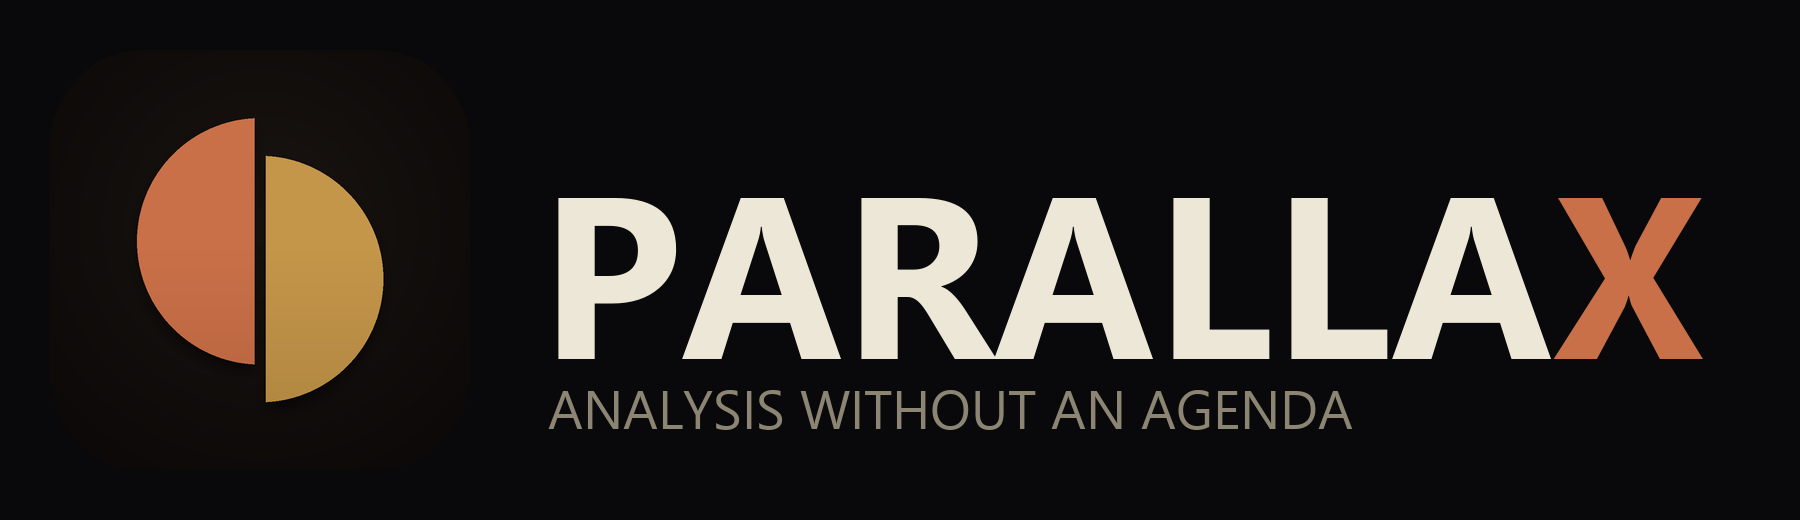
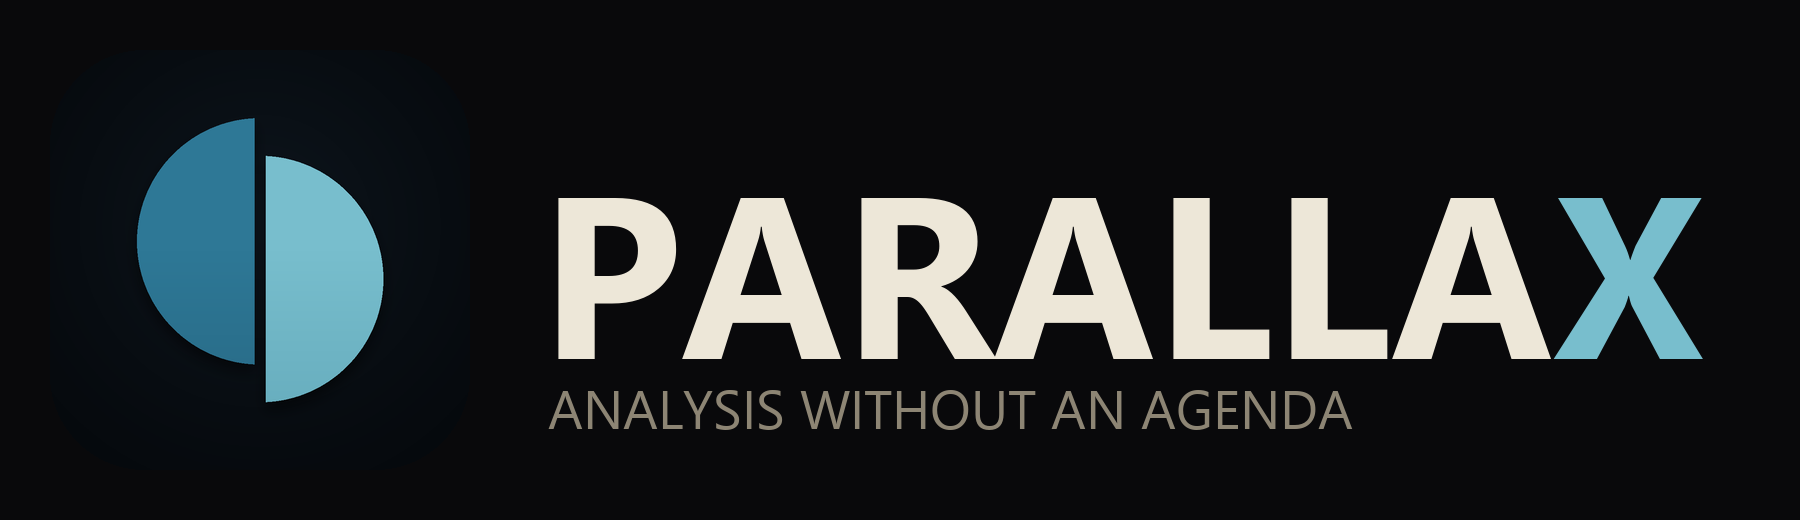
Split globe in Ocean; accent to teal
Icon: deep teal + pale aqua halves on navy-black. In-app accent #5FAFC2 dark /
#1F6F8B light (4.6:1 on the off-white); splash and adaptive backgrounds #0A1119.
Lockups regenerated.

Claude-Session: https://claude.ai/code/session_018v27T4odscxHm4Yx84BL6W

Changed region(s): [[0.0622, 0.2154, 0.2178, 0.7692], [0.8711, 0.3692, 0.9644, 0.7077]]

diff --git a/App.js b/App.js
@@ -58,13 +58,13 @@ const LEGAL = {
 const THEMES = {
   light: {
     ink: '#F6F4EE', panel: '#FFFFFF', panel2: '#F0EDE5', line: '#DDD8CC',
-    text: '#17171A', muted: '#63626B', accent: '#A0522D', accentDim: '#D4906E',   // 2026-09-14: clay, matches the split-globe icon (4.6:1 on the off-white)
+    text: '#17171A', muted: '#63626B', accent: '#1F6F8B', accentDim: '#7FB8C9',   // 2026-09-15: deep teal, the Ocean icon's colour (4.6:1 on the off-white)
     calm: '#2E7D5B', elev: '#B07316', high: '#C24D1E', crit: '#B42323',
     barBg: '#E9E5DB', chip: '#ECE8DE',
   },
   dark: {
     ink: '#09090B', panel: '#141317', panel2: '#0E0D10', line: '#2E2A20',
-    text: '#EDE7D8', muted: '#8D8574', accent: '#C97048', accentDim: '#8E4E32',   // 2026-09-14: terracotta, the icon's own colour; gold retired with the aperture
+    text: '#EDE7D8', muted: '#8D8574', accent: '#5FAFC2', accentDim: '#2E6A82',   // 2026-09-15: teal, the Ocean split-globe's own colour (terracotta 09-14, gold before)
     calm: '#4C9A70', elev: '#D99A2B', high: '#E1662E', crit: '#D93B3B',
     barBg: '#0E0D10', chip: '#221F18',
   },
